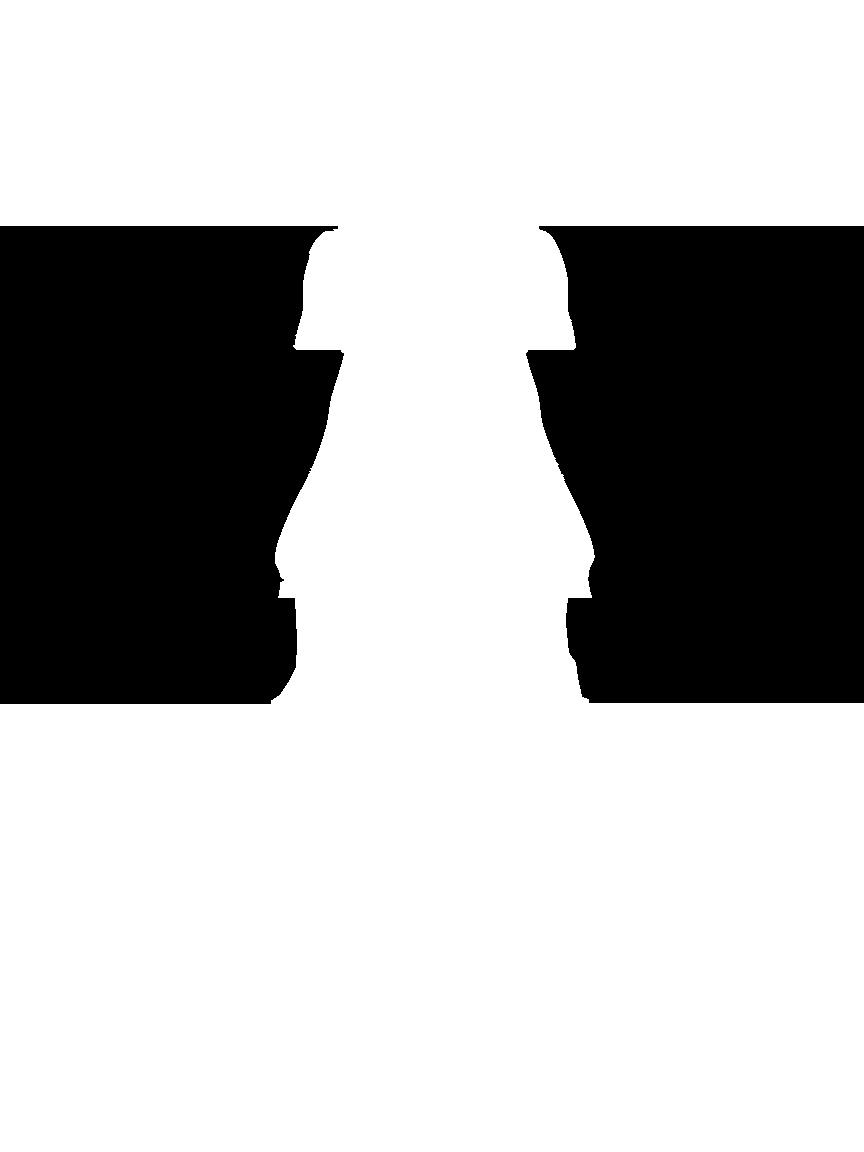
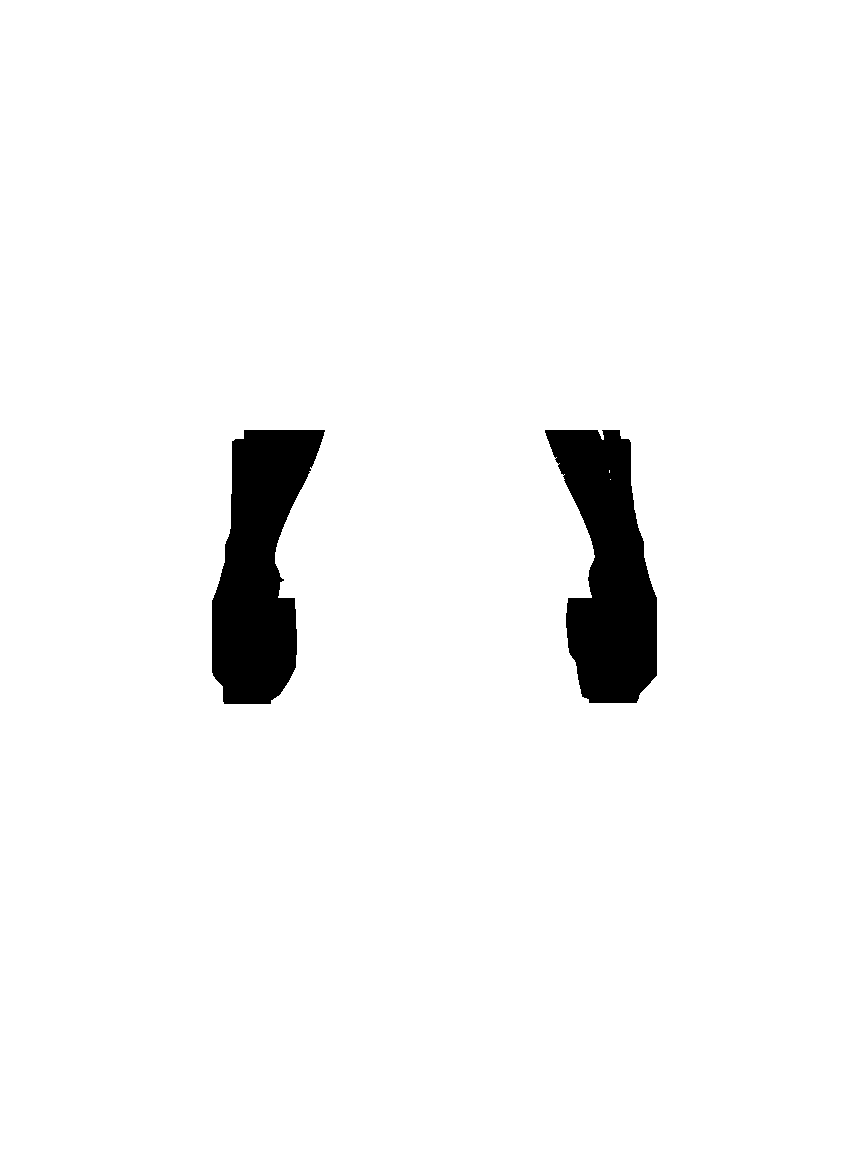
Leather tester: glove clip only trims another tier's sleeve flare at the wrist (beside/below the glove, below elbow height, where the glove tier's own set is empty); base body no longer clipped - fixes holes/lines through the upper arm (female common + masterwork gloves); LAYER_V bump

Changed region(s): [[0.0, 0.1875, 0.4062, 0.625], [0.5938, 0.1875, 1.0, 0.625]]

diff --git a/dolltest/v5/layers.html b/dolltest/v5/layers.html
@@ -129,7 +129,7 @@
     let face = 1;      // 0 = original baked head, 1-10 = new head layers
     let hair = 1;      // 0 = none, 1-10
     // Bump this whenever layer PNGs change so iOS Safari does not keep stale tiles.
-    const LAYER_V = "20261117-pants-full5";
+    const LAYER_V = "20261117-glove-clip2";
     const ONBASE = ["common", "masterwork"];  // tiers cut from Art's on-base paintings
     // Tiers with hidden pants/boots underlaps (drawn only when both are on) so mixing
     // with another tier's boots or pants does not leave a strip of bare leg.
@@ -216,14 +216,14 @@
       show("layer-pantsunder", both && PANTS_UNDERLAP.includes(pick.pants)
         ? v("leather/" + pick.pants + "/layers/" + g + "-pants-under.png") : "");
       const occl = OCCLUDE_SLOTS.filter((s) => pick[s]).map((s) => v("occlude/" + g + "-" + s + ".png"));
-      // Gloves worn over another tier's chest: punch the glove tier's clip mask
-      // (everything lateral of the glove from its top edge down) out of that chest
-      // and out of the base, so a wider sleeve end or baked hand bits of the other
-      // tier don't poke out past the glove. Matching sets are untouched.
-      if (pick.gloves && pick.gloves !== pick.chest) {
+      // Gloves worn over another tier's chest: punch the glove tier's clip mask out
+      // of that chest, so a sleeve end flaring past the glove outline at the wrist
+      // doesn't poke out. The mask only covers wrist/forearm rows, beside and below
+      // the glove, where the glove tier's own set shows nothing; the base body is
+      // never clipped. Matching sets are untouched.
+      if (pick.gloves && pick.chest && pick.gloves !== pick.chest) {
         const clip = v("leather/" + pick.gloves + "/layers/" + g + "-gloves-clip.png");
-        occl.push(clip);
-        if (pick.chest) setPunched("layer-chest", layerSrc("chest"), [clip], g0);
+        setPunched("layer-chest", layerSrc("chest"), [clip], g0);
       }
       if (face) {
         setPunched("layer-base", v(H + "body-" + g + "-outfit.png"), occl, g0);
